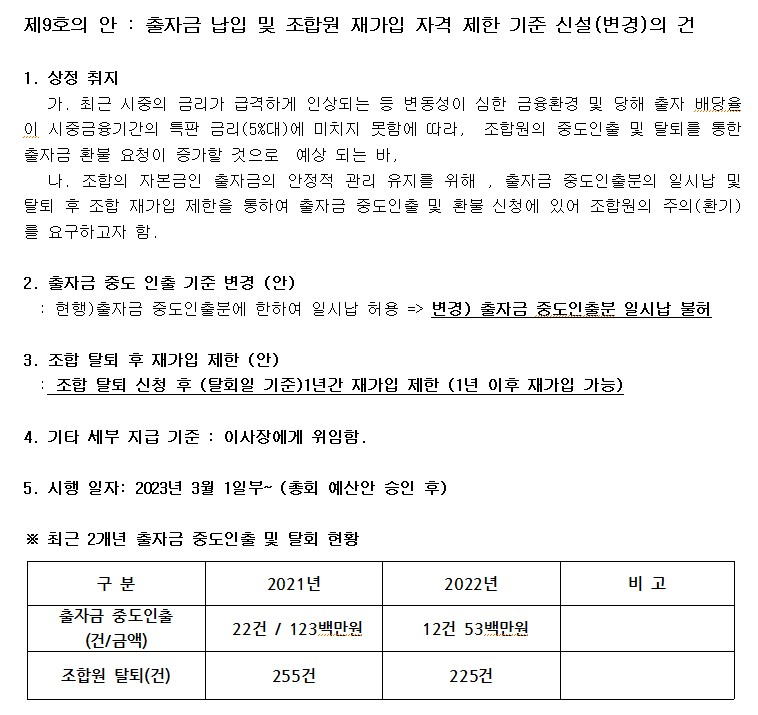
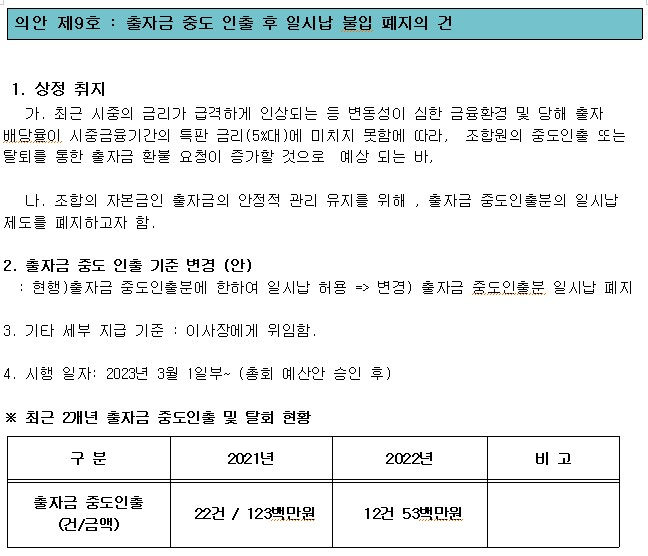
isu plus

diff --git a/sheet.html b/sheet.html
@@ -6,7 +6,7 @@
     <title>제112차 정기이사회 주요의안 요약 정리</title>
     <link rel="stylesheet" href="styles.css" />
     <style>
-      #bs, #pl, #divid, #isu_7, #isu_7_1, #isu_8, #isu_9, #isu_10 {
+      #bs, #pl, #divid, #isu_6, #isu_7, #isu_7, #isu_7_1, #isu_8, #isu_9, #isu_10 {
         display: none;
       }
       a {
@@ -61,9 +61,10 @@
       <option value="1"># 2022년 요약재무상태표</option>
       <option value="2"># 2022년 요약손익계산서</option>
       <option value="3"># 2022년 잉여금처분(안)</option>
+      <option value="8"># 제6호안: 외부감사인 선임(변경)의 건</option>
       <option value="4"># 제7호안:조합원 경조금 신설의 건</option>
       <option value="5"># 제8호안: 조합원퇴직공로금 지급기준 변경의 건</option>
-      <option value="6"># 제9호안:출자금 일시납 및 조합원재가입 제한기준 설정</option>
+      <option value="6"># 제9호안:출자금 중도인출 건 일시 납입 폐지의 건</option>
       <option value="7"># 제10호안:조합 특별회계(특판몰)이용고배당 신설의 건</option>
     </select>
     </div>
@@ -72,6 +73,7 @@
     <img src="img/bs_2022.jpg" id="bs"/><br/>
     <img src="img/pl_2022.jpg" id="pl"/><br/>
     <img src="img/share_2022.jpg" id="divid"/>
+    <img src="img/isu_6.jpg" id="isu_6"/>
     <img src="img/isu_7.jpg" id="isu_7"/>
     <br>
     <img src="img/isu_7_1.jpg" id="isu_7_1"/>
@@ -150,6 +152,7 @@
       document.getElementById("bs").style.display = "block";
       document.getElementById("pl").style.display = "none";
       document.getElementById("divid").style.display = "none";
+      document.getElementById("isu_6").style.display = "none";
       document.getElementById("isu_7").style.display = "none";
       document.getElementById("isu_7_1").style.display = "none";
       document.getElementById("isu_8").style.display = "none";
@@ -160,6 +163,7 @@
       document.getElementById("bs").style.display = "none";
       document.getElementById("pl").style.display = "block";
       document.getElementById("divid").style.display = "none";
+      document.getElementById("isu_6").style.display = "none";
       document.getElementById("isu_7").style.display = "none";
       document.getElementById("isu_7_1").style.display = "none";
       document.getElementById("isu_8").style.display = "none";
@@ -170,6 +174,7 @@
       document.getElementById("bs").style.display = "none";
       document.getElementById("pl").style.display = "none";
       document.getElementById("divid").style.display = "block";
+      document.getElementById("isu_6").style.display = "none";
       document.getElementById("isu_7").style.display = "none";
       document.getElementById("isu_7_1").style.display = "none";
       document.getElementById("isu_8").style.display = "none";
@@ -180,6 +185,7 @@
       document.getElementById("bs").style.display = "none";
       document.getElementById("pl").style.display = "none";
       document.getElementById("divid").style.display = "none";
+      document.getElementById("isu_6").style.display = "none";
       document.getElementById("isu_7").style.display = "block";
       document.getElementById("isu_7_1").style.display = "block";
       document.getElementById("isu_8").style.display = "none";
@@ -190,6 +196,7 @@
       document.getElementById("bs").style.display = "none";
       document.getElementById("pl").style.display = "none";
       document.getElementById("divid").style.display = "none";
+      document.getElementById("isu_6").style.display = "none";
       document.getElementById("isu_7").style.display = "none";
       document.getElementById("isu_7_1").style.display = "none";
       document.getElementById("isu_8").style.display = "block";
@@ -200,6 +207,7 @@
       document.getElementById("bs").style.display = "none";
       document.getElementById("pl").style.display = "none";
       document.getElementById("divid").style.display = "none";
+      document.getElementById("isu_6").style.display = "none";
       document.getElementById("isu_7").style.display = "none";
       document.getElementById("isu_7_1").style.display = "none";
       document.getElementById("isu_8").style.display = "none";
@@ -210,11 +218,23 @@
       document.getElementById("bs").style.display = "none";
       document.getElementById("pl").style.display = "none";
       document.getElementById("divid").style.display = "none";
+      document.getElementById("isu_6").style.display = "none";
       document.getElementById("isu_7").style.display = "none";
       document.getElementById("isu_7_1").style.display = "none";
       document.getElementById("isu_8").style.display = "none";
       document.getElementById("isu_9").style.display = "none";
       document.getElementById("isu_10").style.display = "block";
+    }
+    if (selectValue == "8") {
+      document.getElementById("bs").style.display = "none";
+      document.getElementById("pl").style.display = "none";
+      document.getElementById("divid").style.display = "none";
+      document.getElementById("isu_6").style.display = "block";
+      document.getElementById("isu_7").style.display = "none";
+      document.getElementById("isu_7_1").style.display = "none";
+      document.getElementById("isu_8").style.display = "none";
+      document.getElementById("isu_9").style.display = "none";
+      document.getElementById("isu_10").style.display = "none";
     }
        if (selectValue == "0") {
       alert(" 🧾 결산 재무제표를 선택해 주세요 ");
